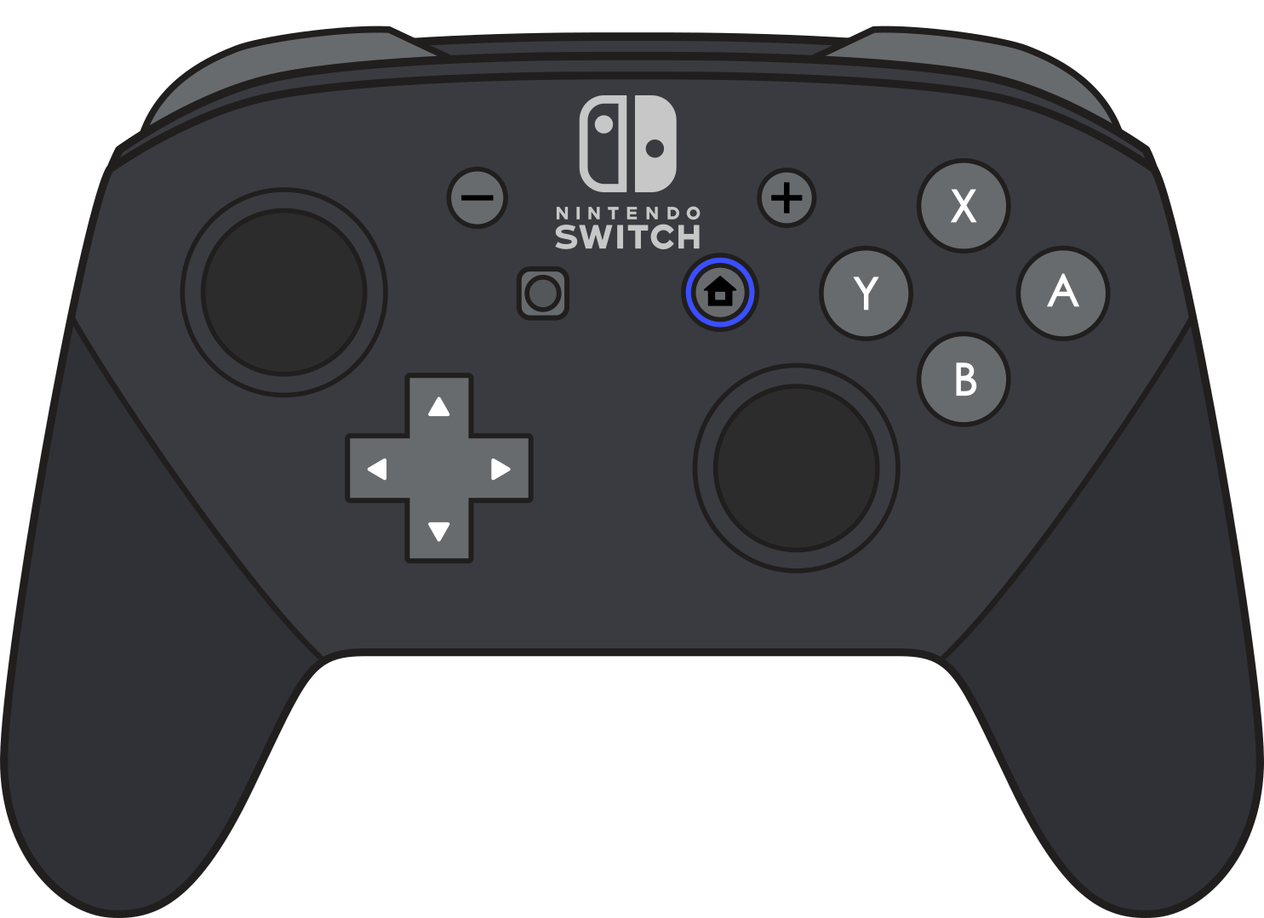
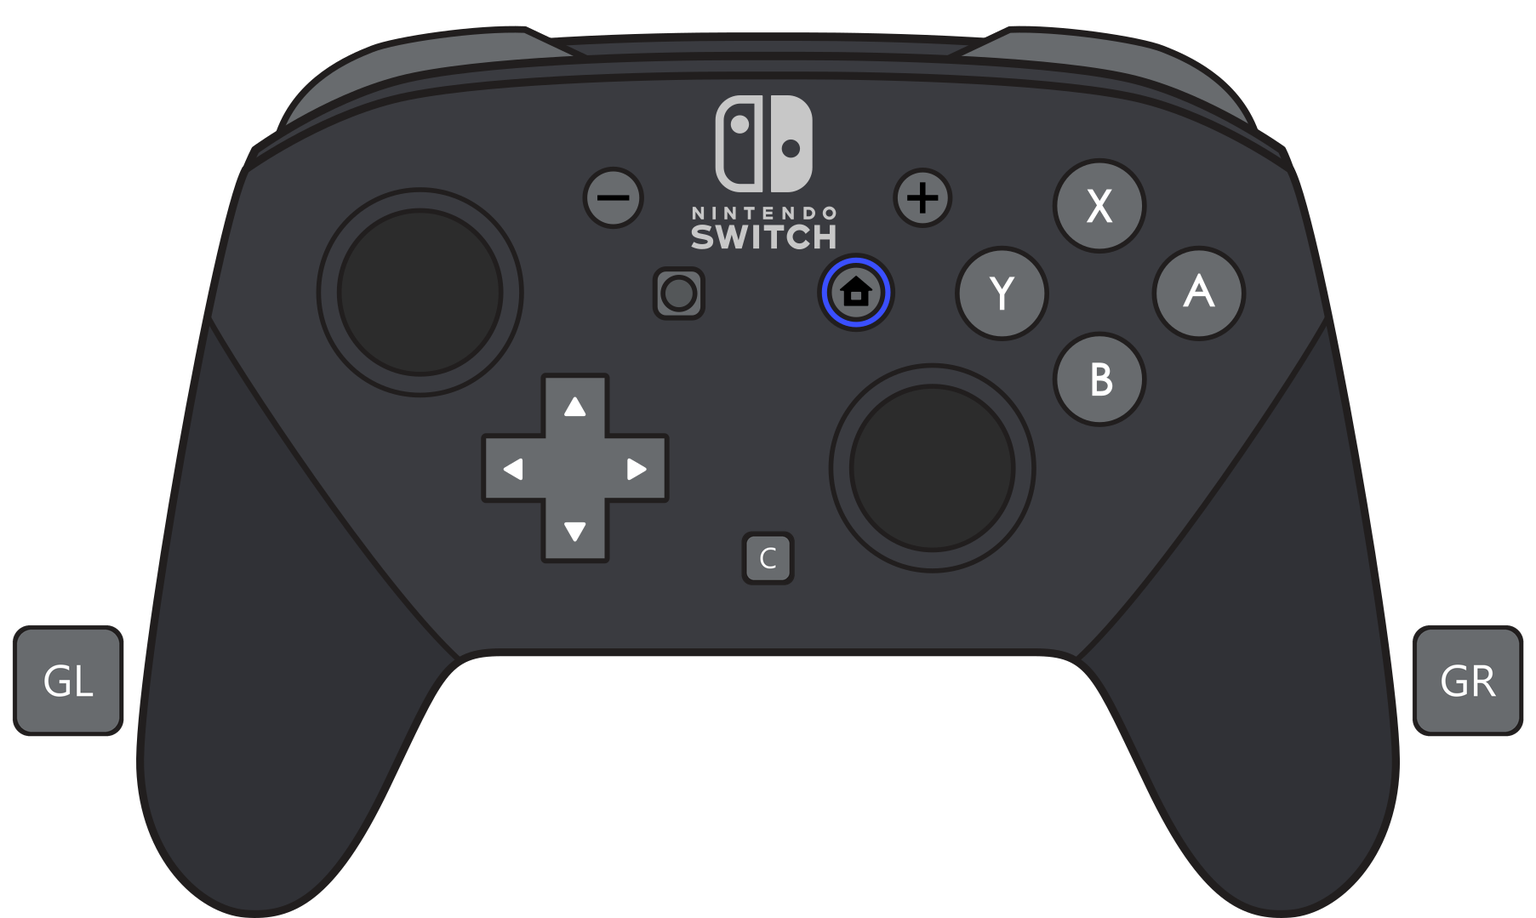
Switch 2 Pro 2D assets: C Button and floating GL / GR tiles
The 2D set was the original Pro Controller's while the 3D mesh has been
the Switch 2 Pro's, so the C Button and the two rear grip buttons had no
2D representation at all.

C sits on the front face, drawn in the Capture button's exact treatment.
Its position comes from the hado Switch 2 Pro mesh (CButton.obj centroid
x=0.00, z=-12.08) mapped into the 2D frame by a linear fit over the
controls both carry, and agrees with Nintendo's controller diagram
placing it between the D-pad and the right stick. Size and silhouette
come from the same mesh: CButton and Capture share a 6.28mm footprint
and the same rounded-square corner profile, so C reuses the Capture
press sprite rather than adding a near-duplicate.

GL and GR are on the back, so they get the Steam Deck's L4/L5/R4/R5
treatment: floating tiles in a gutter, which is why the base canvas
widens 1485 -> 1805 and every existing element shifts +160. Target names
follow the fork's own mapping string for the Switch 2 Pro, misc2:b12 for
C and paddle1/paddle2:b13/b14 for GR/GL.

Base art is regenerated by tools/gen_switchpro_s2_art.py from the pack's
untouched template, so nothing hand-edits a shipped PNG.

The generator now scales SVG label bboxes by the pack render's own 1485
width instead of the canvas width, which would otherwise stretch every
label by the gutter ratio.

diff --git a/PadForge.App/Models2D/ControllerOverlayLayout.cs b/PadForge.App/Models2D/ControllerOverlayLayout.cs
@@ -177,35 +177,38 @@ public static class XboxSeriesXLayout
 
 public static class SwitchProLayout
 {
-    public const int BaseWidth = 1485;
+    public const int BaseWidth = 1805;
     public const int BaseHeight = 1079;
     public const string BasePath = "2DModels/SWITCHPRO/NSwitchPro_base.png";
     public const double StickMaxTravel = 25;
 
     public static readonly OverlayElement[] Overlays =
     {
-        new("NSwitchPro_ZL.png", "LeftTrigger", OverlayElementType.Trigger, 221, 4, 237, 94, "0.9958,0.2766 0.8903,0.1277 0.7511,0.0000 0.4430,0.0213 0.2869,0.2021 0.1519,0.4574 0.0042,0.8511 0.0000,0.9894 0.0464,0.9894 0.1646,0.7766 0.3418,0.5851 0.6751,0.4468 0.9958,0.4149"),
-        new("NSwitchPro_ZR.png", "RightTrigger", OverlayElementType.Trigger, 1026, 4, 237, 94, "0.0000,0.2766 0.0000,0.4149 0.3207,0.4468 0.6540,0.5851 0.8312,0.7766 0.9494,0.9894 0.9958,0.9894 0.9916,0.8511 0.8439,0.4574 0.7089,0.2021 0.5527,0.0213 0.2447,0.0000 0.1055,0.1277"),
-        new("NSwitchPro_ZL_Rest.png", "LeftTriggerBase", OverlayElementType.TriggerBase, 200, 0, 278, 100),
-        new("NSwitchPro_ZR_Rest.png", "RightTriggerBase", OverlayElementType.TriggerBase, 1007, 0, 276, 100),
-        new("NSwitchPro_FaceButton.png", "ButtonA", OverlayElementType.Button, 1196, 292, 105, 106, "0.2381,0.0189 0.0762,0.1509 0.0000,0.2830 0.0000,0.7075 0.0381,0.7830 0.1524,0.9151 0.2857,0.9906 0.7048,0.9906 0.7524,0.9717 0.9143,0.8396 0.9905,0.7075 0.9905,0.2830 0.9524,0.2075 0.8381,0.0755 0.7048,0.0000 0.2857,0.0000"),
-        new("NSwitchPro_FaceButton.png", "ButtonB", OverlayElementType.Button, 1080, 392, 105, 106, "0.2381,0.0189 0.0762,0.1509 0.0000,0.2830 0.0000,0.7075 0.0381,0.7830 0.1524,0.9151 0.2857,0.9906 0.7048,0.9906 0.7524,0.9717 0.9143,0.8396 0.9905,0.7075 0.9905,0.2830 0.9524,0.2075 0.8381,0.0755 0.7048,0.0000 0.2857,0.0000"),
-        new("NSwitchPro_FaceButton.png", "ButtonX", OverlayElementType.Button, 1080, 190, 105, 106, "0.2381,0.0189 0.0762,0.1509 0.0000,0.2830 0.0000,0.7075 0.0381,0.7830 0.1524,0.9151 0.2857,0.9906 0.7048,0.9906 0.7524,0.9717 0.9143,0.8396 0.9905,0.7075 0.9905,0.2830 0.9524,0.2075 0.8381,0.0755 0.7048,0.0000 0.2857,0.0000"),
-        new("NSwitchPro_FaceButton.png", "ButtonY", OverlayElementType.Button, 965, 292, 105, 106, "0.2381,0.0189 0.0762,0.1509 0.0000,0.2830 0.0000,0.7075 0.0381,0.7830 0.1524,0.9151 0.2857,0.9906 0.7048,0.9906 0.7524,0.9717 0.9143,0.8396 0.9905,0.7075 0.9905,0.2830 0.9524,0.2075 0.8381,0.0755 0.7048,0.0000 0.2857,0.0000"),
-        new("NSwitchPro_D-PAD_Up.png", "DPadUp", OverlayElementType.Button, 474, 438, 83, 112, "0.0000,0.0000 0.0000,0.6875 0.4217,0.9911 0.5663,0.9911 0.9880,0.6875 0.9880,0.0000"),
-        new("NSwitchPro_D-PAD_Down.png", "DPadDown", OverlayElementType.Button, 474, 550, 83, 112, "0.4217,0.0000 0.0000,0.3036 0.0000,0.9911 0.9880,0.9911 0.9880,0.3036 0.5663,0.0000"),
-        new("NSwitchPro_D-PAD_Left.png", "DPadLeft", OverlayElementType.Button, 405, 508, 110, 83, "0.0000,0.0000 0.0000,0.9880 0.6727,0.9880 0.9909,0.5663 0.9909,0.4217 0.6727,0.0000"),
-        new("NSwitchPro_D-PAD_Right.png", "DPadRight", OverlayElementType.Button, 516, 508, 110, 83, "0.0000,0.4217 0.0000,0.5663 0.3182,0.9880 0.9909,0.9880 0.9909,0.0000 0.3182,0.0000"),
-        new("NSwitchPro_L_Bumper.png", "LeftShoulder", OverlayElementType.Button, 176, 35, 346, 121, "0.9971,0.2397 0.8208,0.0000 0.5694,0.0000 0.3266,0.1157 0.2023,0.2645 0.0954,0.4793 0.0058,0.8182 0.0000,0.9917 0.0405,0.9917 0.2081,0.7355 0.3786,0.5537 0.6243,0.4298 0.9971,0.3554"),
-        new("NSwitchPro_R_Bumper.png", "RightShoulder", OverlayElementType.Button, 961, 35, 346, 121, "0.0000,0.2397 0.0000,0.3554 0.3728,0.4298 0.6185,0.5537 0.7890,0.7355 0.9566,0.9917 0.9971,0.9917 0.9971,0.8595 0.9769,0.7438 0.9017,0.4793 0.7948,0.2645 0.6705,0.1157 0.4277,0.0000 0.1763,0.0000"),
-        new("NSwitchPro_Plus-MinusButton.png", "ButtonBack", OverlayElementType.Button, 527, 199, 67, 68, "0.1562,0.0308 0.0312,0.1538 0.0000,0.2154 0.0000,0.7692 0.0312,0.8308 0.1562,0.9538 0.2188,0.9846 0.7656,0.9846 0.8281,0.9538 0.9531,0.8308 0.9844,0.7692 0.9844,0.2154 0.9531,0.1538 0.8281,0.0308 0.7656,0.0000 0.2188,0.0000"),
-        new("NSwitchPro_Plus-MinusButton.png", "ButtonStart", OverlayElementType.Button, 892, 200, 64, 65, "0.1562,0.0308 0.0312,0.1538 0.0000,0.2154 0.0000,0.7692 0.0312,0.8308 0.1562,0.9538 0.2188,0.9846 0.7656,0.9846 0.8281,0.9538 0.9531,0.8308 0.9844,0.7692 0.9844,0.2154 0.9531,0.1538 0.8281,0.0308 0.7656,0.0000 0.2188,0.0000"),
-        new("NSwitchPro_HomeButton.png", "ButtonGuide", OverlayElementType.Button, 800, 297, 92, 93, "0.2609,0.0000 0.1413,0.0753 0.0000,0.2581 0.0000,0.7204 0.0761,0.8495 0.2609,0.9892 0.7283,0.9892 0.9130,0.8495 0.9891,0.7204 0.9891,0.2581 0.9130,0.1398 0.7283,0.0000"),
-        new("NSwitchPro_CaptureButton.png", "ButtonShare", OverlayElementType.Button, 607, 314, 62, 63, "0.0323,0.0159 0.0000,0.0635 0.0000,0.9206 0.0161,0.9524 0.0645,0.9841 0.9194,0.9841 0.9516,0.9683 0.9839,0.9206 0.9839,0.0635 0.9677,0.0317 0.9194,0.0000 0.0645,0.0000"),
-        new("NSwitchPro_LeftStick.png", "LeftThumbRing", OverlayElementType.StickRing, 248, 257, 172, 174, "0.2733,0.0057 0.1570,0.0747 0.0756,0.1552 0.0000,0.2874 0.0000,0.7069 0.0174,0.7471 0.1570,0.9195 0.2733,0.9885 0.7209,0.9885 0.8372,0.9195 0.9186,0.8391 0.9942,0.7069 0.9942,0.2874 0.9767,0.2471 0.8372,0.0747 0.7209,0.0057"),
-        new("NSwitchPro_RightStick.png", "RightThumbRing", OverlayElementType.StickRing, 846, 460, 179, 181, "0.2793,0.0055 0.1788,0.0608 0.0838,0.1492 0.0000,0.2928 0.0112,0.7293 0.1564,0.9171 0.2793,0.9890 0.7151,0.9890 0.8156,0.9337 0.9106,0.8453 0.9944,0.7017 0.9832,0.2652 0.8380,0.0773 0.7151,0.0055"),
-        new("NSwitchPro_AnalogStickClick.png", "LeftThumbButton", OverlayElementType.StickClick, 248, 258, 172, 171, "0.2737,0.0056 0.1732,0.0618 0.0838,0.1461 0.0000,0.2921 0.0000,0.7022 0.0279,0.7697 0.1453,0.9101 0.2905,0.9944 0.7207,0.9888 0.8547,0.9045 0.9330,0.8202 0.9888,0.7191 0.9888,0.2753 0.9106,0.1461 0.7207,0.0056"),
-        new("NSwitchPro_AnalogStickClick.png", "RightThumbButton", OverlayElementType.StickClick, 846, 462, 179, 178, "0.2737,0.0056 0.1732,0.0618 0.0838,0.1461 0.0000,0.2921 0.0000,0.7022 0.0279,0.7697 0.1453,0.9101 0.2905,0.9944 0.7207,0.9888 0.8547,0.9045 0.9330,0.8202 0.9888,0.7191 0.9888,0.2753 0.9106,0.1461 0.7207,0.0056"),
+        new("NSwitchPro_ZL.png", "LeftTrigger", OverlayElementType.Trigger, 381, 4, 237, 94, "0.9958,0.2766 0.8903,0.1277 0.7511,0.0000 0.4430,0.0213 0.2869,0.2021 0.1519,0.4574 0.0042,0.8511 0.0000,0.9894 0.0464,0.9894 0.1646,0.7766 0.3418,0.5851 0.6751,0.4468 0.9958,0.4149"),
+        new("NSwitchPro_ZR.png", "RightTrigger", OverlayElementType.Trigger, 1186, 4, 237, 94, "0.0000,0.2766 0.0000,0.4149 0.3207,0.4468 0.6540,0.5851 0.8312,0.7766 0.9494,0.9894 0.9958,0.9894 0.9916,0.8511 0.8439,0.4574 0.7089,0.2021 0.5527,0.0213 0.2447,0.0000 0.1055,0.1277"),
+        new("NSwitchPro_ZL_Rest.png", "LeftTriggerBase", OverlayElementType.TriggerBase, 360, 0, 278, 100),
+        new("NSwitchPro_ZR_Rest.png", "RightTriggerBase", OverlayElementType.TriggerBase, 1167, 0, 276, 100),
+        new("NSwitchPro_FaceButton.png", "ButtonA", OverlayElementType.Button, 1356, 292, 105, 106, "0.2381,0.0189 0.0762,0.1509 0.0000,0.2830 0.0000,0.7075 0.0381,0.7830 0.1524,0.9151 0.2857,0.9906 0.7048,0.9906 0.7524,0.9717 0.9143,0.8396 0.9905,0.7075 0.9905,0.2830 0.9524,0.2075 0.8381,0.0755 0.7048,0.0000 0.2857,0.0000"),
+        new("NSwitchPro_FaceButton.png", "ButtonB", OverlayElementType.Button, 1240, 392, 105, 106, "0.2381,0.0189 0.0762,0.1509 0.0000,0.2830 0.0000,0.7075 0.0381,0.7830 0.1524,0.9151 0.2857,0.9906 0.7048,0.9906 0.7524,0.9717 0.9143,0.8396 0.9905,0.7075 0.9905,0.2830 0.9524,0.2075 0.8381,0.0755 0.7048,0.0000 0.2857,0.0000"),
+        new("NSwitchPro_FaceButton.png", "ButtonX", OverlayElementType.Button, 1240, 190, 105, 106, "0.2381,0.0189 0.0762,0.1509 0.0000,0.2830 0.0000,0.7075 0.0381,0.7830 0.1524,0.9151 0.2857,0.9906 0.7048,0.9906 0.7524,0.9717 0.9143,0.8396 0.9905,0.7075 0.9905,0.2830 0.9524,0.2075 0.8381,0.0755 0.7048,0.0000 0.2857,0.0000"),
+        new("NSwitchPro_FaceButton.png", "ButtonY", OverlayElementType.Button, 1125, 292, 105, 106, "0.2381,0.0189 0.0762,0.1509 0.0000,0.2830 0.0000,0.7075 0.0381,0.7830 0.1524,0.9151 0.2857,0.9906 0.7048,0.9906 0.7524,0.9717 0.9143,0.8396 0.9905,0.7075 0.9905,0.2830 0.9524,0.2075 0.8381,0.0755 0.7048,0.0000 0.2857,0.0000"),
+        new("NSwitchPro_D-PAD_Up.png", "DPadUp", OverlayElementType.Button, 634, 438, 83, 112, "0.0000,0.0000 0.0000,0.6875 0.4217,0.9911 0.5663,0.9911 0.9880,0.6875 0.9880,0.0000"),
+        new("NSwitchPro_D-PAD_Down.png", "DPadDown", OverlayElementType.Button, 634, 550, 83, 112, "0.4217,0.0000 0.0000,0.3036 0.0000,0.9911 0.9880,0.9911 0.9880,0.3036 0.5663,0.0000"),
+        new("NSwitchPro_D-PAD_Left.png", "DPadLeft", OverlayElementType.Button, 565, 508, 110, 83, "0.0000,0.0000 0.0000,0.9880 0.6727,0.9880 0.9909,0.5663 0.9909,0.4217 0.6727,0.0000"),
+        new("NSwitchPro_D-PAD_Right.png", "DPadRight", OverlayElementType.Button, 676, 508, 110, 83, "0.0000,0.4217 0.0000,0.5663 0.3182,0.9880 0.9909,0.9880 0.9909,0.0000 0.3182,0.0000"),
+        new("NSwitchPro_L_Bumper.png", "LeftShoulder", OverlayElementType.Button, 336, 35, 346, 121, "0.9971,0.2397 0.8208,0.0000 0.5694,0.0000 0.3266,0.1157 0.2023,0.2645 0.0954,0.4793 0.0058,0.8182 0.0000,0.9917 0.0405,0.9917 0.2081,0.7355 0.3786,0.5537 0.6243,0.4298 0.9971,0.3554"),
+        new("NSwitchPro_R_Bumper.png", "RightShoulder", OverlayElementType.Button, 1121, 35, 346, 121, "0.0000,0.2397 0.0000,0.3554 0.3728,0.4298 0.6185,0.5537 0.7890,0.7355 0.9566,0.9917 0.9971,0.9917 0.9971,0.8595 0.9769,0.7438 0.9017,0.4793 0.7948,0.2645 0.6705,0.1157 0.4277,0.0000 0.1763,0.0000"),
+        new("NSwitchPro_Plus-MinusButton.png", "ButtonBack", OverlayElementType.Button, 687, 199, 67, 68, "0.1562,0.0308 0.0312,0.1538 0.0000,0.2154 0.0000,0.7692 0.0312,0.8308 0.1562,0.9538 0.2188,0.9846 0.7656,0.9846 0.8281,0.9538 0.9531,0.8308 0.9844,0.7692 0.9844,0.2154 0.9531,0.1538 0.8281,0.0308 0.7656,0.0000 0.2188,0.0000"),
+        new("NSwitchPro_Plus-MinusButton.png", "ButtonStart", OverlayElementType.Button, 1052, 200, 64, 65, "0.1562,0.0308 0.0312,0.1538 0.0000,0.2154 0.0000,0.7692 0.0312,0.8308 0.1562,0.9538 0.2188,0.9846 0.7656,0.9846 0.8281,0.9538 0.9531,0.8308 0.9844,0.7692 0.9844,0.2154 0.9531,0.1538 0.8281,0.0308 0.7656,0.0000 0.2188,0.0000"),
+        new("NSwitchPro_HomeButton.png", "ButtonGuide", OverlayElementType.Button, 960, 297, 92, 93, "0.2609,0.0000 0.1413,0.0753 0.0000,0.2581 0.0000,0.7204 0.0761,0.8495 0.2609,0.9892 0.7283,0.9892 0.9130,0.8495 0.9891,0.7204 0.9891,0.2581 0.9130,0.1398 0.7283,0.0000"),
+        new("NSwitchPro_CaptureButton.png", "ButtonShare", OverlayElementType.Button, 767, 314, 62, 63, "0.0323,0.0159 0.0000,0.0635 0.0000,0.9206 0.0161,0.9524 0.0645,0.9841 0.9194,0.9841 0.9516,0.9683 0.9839,0.9206 0.9839,0.0635 0.9677,0.0317 0.9194,0.0000 0.0645,0.0000"),
+        new("NSwitchPro_LeftStick.png", "LeftThumbRing", OverlayElementType.StickRing, 408, 257, 172, 174, "0.2733,0.0057 0.1570,0.0747 0.0756,0.1552 0.0000,0.2874 0.0000,0.7069 0.0174,0.7471 0.1570,0.9195 0.2733,0.9885 0.7209,0.9885 0.8372,0.9195 0.9186,0.8391 0.9942,0.7069 0.9942,0.2874 0.9767,0.2471 0.8372,0.0747 0.7209,0.0057"),
+        new("NSwitchPro_RightStick.png", "RightThumbRing", OverlayElementType.StickRing, 1006, 460, 179, 181, "0.2793,0.0055 0.1788,0.0608 0.0838,0.1492 0.0000,0.2928 0.0112,0.7293 0.1564,0.9171 0.2793,0.9890 0.7151,0.9890 0.8156,0.9337 0.9106,0.8453 0.9944,0.7017 0.9832,0.2652 0.8380,0.0773 0.7151,0.0055"),
+        new("NSwitchPro_AnalogStickClick.png", "LeftThumbButton", OverlayElementType.StickClick, 408, 258, 172, 171, "0.2737,0.0056 0.1732,0.0618 0.0838,0.1461 0.0000,0.2921 0.0000,0.7022 0.0279,0.7697 0.1453,0.9101 0.2905,0.9944 0.7207,0.9888 0.8547,0.9045 0.9330,0.8202 0.9888,0.7191 0.9888,0.2753 0.9106,0.1461 0.7207,0.0056"),
+        new("NSwitchPro_AnalogStickClick.png", "RightThumbButton", OverlayElementType.StickClick, 1006, 462, 179, 178, "0.2737,0.0056 0.1732,0.0618 0.0838,0.1461 0.0000,0.2921 0.0000,0.7022 0.0279,0.7697 0.1453,0.9101 0.2905,0.9944 0.7207,0.9888 0.8547,0.9045 0.9330,0.8202 0.9888,0.7191 0.9888,0.2753 0.9106,0.1461 0.7207,0.0056"),
+        new("NSwitchPro_CaptureButton.png", "Misc2", OverlayElementType.Button, 872, 624, 62, 63, "0.0323,0.0159 0.0000,0.0635 0.0000,0.9206 0.0161,0.9524 0.0645,0.9841 0.9194,0.9841 0.9516,0.9683 0.9839,0.9206 0.9839,0.0635 0.9677,0.0317 0.9194,0.0000 0.0645,0.0000"),
+        new("NSwitchPro_GripTile.png", "Paddle2", OverlayElementType.Button, 15, 735, 130, 130, "0.0231,0.0000 0.0000,0.0231 0.0000,0.9692 0.0231,0.9923 0.9692,0.9923 0.9923,0.9692 0.9923,0.0231 0.9692,0.0000"),
+        new("NSwitchPro_GripTile.png", "Paddle1", OverlayElementType.Button, 1660, 735, 130, 130, "0.0231,0.0000 0.0000,0.0231 0.0000,0.9692 0.0231,0.9923 0.9692,0.9923 0.9923,0.9692 0.9923,0.0231 0.9692,0.0000"),
     };
 }
 

diff --git a/tools/gen_switchpro_s2_art.py b/tools/gen_switchpro_s2_art.py
@@ -1,0 +1,151 @@
+"""Extend the Switch Pro 2D asset set to Switch 2 Pro.
+
+Runs before tools/overlay_positions.py, which reads the base this writes
+and emits SwitchProLayout against it. Rerunning is idempotent: the input
+is always the pack's own untouched template, never the shipped base.
+
+Adds the three controls the Switch 2 Pro has and the original does not:
+the C Button on the front face, and the GL / GR rear grip buttons shown
+as floating tiles in a side margin (the Steam Deck's L4/L5/R4/R5
+treatment, which is the repo's established answer for a control with no
+front-facing position).
+
+Positions are derived, not eyeballed:
+  * C Button comes from the purchased hado Switch 2 Pro mesh
+    (3DModels/Switch2Pro/CButton.obj, centroid x=0.00 z=-12.08) mapped
+    into the 2D frame by a linear fit over controls present in both, and
+    cross-checked against Nintendo's own controller diagram, which puts
+    it "on the front face between the D-pad and right stick area".
+  * Its size and rounded-square silhouette come from the same mesh:
+    CButton and Capture share a 6.28mm footprint and the same corner
+    profile (top-face radius spread 1.35 vs 1.32; the round face buttons
+    and Home measure 1.00), so C reuses the Capture press sprite.
+
+Palette is sampled from the base render, not guessed:
+  body #3A3B40, button outline #211E1E, cap grey #686B6E, glyph white.
+"""
+import os
+from PIL import Image, ImageDraw, ImageFont
+
+ROOT = os.path.dirname(os.path.dirname(os.path.abspath(__file__)))
+SRC = os.path.join(ROOT, "PadForge.App", "2DModels", "SWITCHPRO")
+PACK = os.path.join(os.path.dirname(ROOT), "Gamepad-Asset-Pack", "Controller Asset Pack",
+                    "Nintendo Switch Controller Images", "Switch Pro Controller",
+                    "Default Theme", "Templates", "NSwitchPro_base.png")
+
+MARGIN = 160          # side gutter the floating tiles live in
+TILE = 130            # GL / GR tile edge
+TILE_Y = 735          # top of tile, centred on the grips
+SS = 4                # supersample factor for every drawn shape
+
+OUTLINE = (33, 30, 30, 255)
+CAP = (104, 107, 110, 255)
+GLYPH = (255, 255, 255, 255)
+RING = (36, 210, 246, 255)        # press-sprite outline
+RING_FILL = (16, 120, 147, 128)   # press-sprite interior
+
+# C Button, in the ORIGINAL 1485-wide frame. See module docstring.
+C_W, C_H = 62, 63
+C_CX, C_CY = 742.5, 656.0
+
+
+def font(size):
+    # The pack's A/B/X/Y glyphs are a regular-weight geometric sans, not a
+    # light one. A light face renders grey after antialiasing and reads as
+    # a different family beside them.
+    for name in ("segoeui.ttf", "arial.ttf"):
+        p = os.path.join(r"C:\Windows\Fonts", name)
+        if os.path.exists(p):
+            return ImageFont.truetype(p, size)
+    raise SystemExit("no usable font")
+
+
+def centred_text(draw, box, text, fnt, fill):
+    """Draw text optically centred in box (x0,y0,x1,y1) by its ink bbox."""
+    x0, y0, x1, y1 = box
+    bb = draw.textbbox((0, 0), text, font=fnt)
+    tw, th = bb[2] - bb[0], bb[3] - bb[1]
+    draw.text((x0 + (x1 - x0 - tw) / 2 - bb[0],
+               y0 + (y1 - y0 - th) / 2 - bb[1]), text, font=fnt, fill=fill)
+
+
+def rounded(draw, box, radius, fill=None, outline=None, width=0):
+    draw.rounded_rectangle(box, radius=radius, fill=fill, outline=outline, width=width)
+
+
+def draw_c_button(img, cx, cy):
+    """The C Button, drawn in the Capture button's exact treatment."""
+    lay = Image.new("RGBA", (img.width * SS, img.height * SS), (0, 0, 0, 0))
+    d = ImageDraw.Draw(lay)
+    hw, hh = C_W * SS / 2, C_H * SS / 2
+    x0, y0 = cx * SS - hw, cy * SS - hh
+    x1, y1 = cx * SS + hw, cy * SS + hh
+    r = 12 * SS
+    rounded(d, (x0, y0, x1, y1), r, fill=OUTLINE)                 # dark rim
+    inset = 6 * SS
+    rounded(d, (x0 + inset, y0 + inset, x1 - inset, y1 - inset),
+            r - inset * 0.55, fill=CAP)                            # grey cap
+    centred_text(d, (x0 + inset, y0 + inset, x1 - inset, y1 - inset),
+                 "C", font(int(34 * SS)), GLYPH)
+    lay = lay.resize((img.width, img.height), Image.LANCZOS)
+    img.alpha_composite(lay)
+
+
+def draw_tile(img, x0, y0, label):
+    """A floating GL / GR tile: same rim + cap + white glyph language."""
+    lay = Image.new("RGBA", (img.width * SS, img.height * SS), (0, 0, 0, 0))
+    d = ImageDraw.Draw(lay)
+    X0, Y0 = x0 * SS, y0 * SS
+    X1, Y1 = (x0 + TILE) * SS, (y0 + TILE) * SS
+    r = 20 * SS
+    rounded(d, (X0, Y0, X1, Y1), r, fill=OUTLINE)
+    inset = 5 * SS
+    rounded(d, (X0 + inset, Y0 + inset, X1 - inset, Y1 - inset),
+            r - inset * 0.55, fill=CAP)
+    centred_text(d, (X0 + inset, Y0 + inset, X1 - inset, Y1 - inset),
+                 label, font(int(52 * SS)), GLYPH)
+    lay = lay.resize((img.width, img.height), Image.LANCZOS)
+    img.alpha_composite(lay)
+
+
+def make_tile_sprite(path):
+    """Press sprite for a grip tile: the family's cyan rim + wash."""
+    lay = Image.new("RGBA", (TILE * SS, TILE * SS), (0, 0, 0, 0))
+    d = ImageDraw.Draw(lay)
+    r = 20 * SS
+    rounded(d, (0, 0, TILE * SS - 1, TILE * SS - 1), r, fill=RING_FILL)
+    rounded(d, (0, 0, TILE * SS - 1, TILE * SS - 1), r, outline=RING, width=6 * SS)
+    lay.resize((TILE, TILE), Image.LANCZOS).save(path)
+    print(f"  wrote {os.path.basename(path)} {TILE}x{TILE}")
+
+
+def main():
+    src = Image.open(PACK).convert("RGBA")
+    print(f"pack base {src.size}")
+    if src.size != (1485, 1079):
+        raise SystemExit(f"unexpected pack base size {src.size}")
+
+    out = Image.new("RGBA", (src.width + 2 * MARGIN, src.height), (0, 0, 0, 0))
+    out.alpha_composite(src, (MARGIN, 0))
+
+    draw_c_button(out, C_CX + MARGIN, C_CY)
+    draw_tile(out, (MARGIN - TILE) // 2, TILE_Y, "GL")
+    draw_tile(out, out.width - (MARGIN - TILE) // 2 - TILE, TILE_Y, "GR")
+
+    dst = os.path.join(SRC, "NSwitchPro_base.png")
+    out.save(dst)
+    print(f"  wrote base {out.size} -> {dst}")
+
+    make_tile_sprite(os.path.join(SRC, "NSwitchPro_GripTile.png"))
+
+    # Emitted layout geometry, in the NEW frame.
+    print("\nlayout geometry (new frame):")
+    print(f"  BaseWidth  = {out.width}")
+    print(f"  BaseHeight = {out.height}")
+    print(f"  C   x={round(C_CX + MARGIN - C_W / 2)} y={round(C_CY - C_H / 2)} w={C_W} h={C_H}")
+    print(f"  GL  x={(MARGIN - TILE)//2} y={TILE_Y} w={TILE} h={TILE}")
+    print(f"  GR  x={out.width - (MARGIN - TILE)//2 - TILE} y={TILE_Y} w={TILE} h={TILE}")
+    print(f"  X shift for every existing element = +{MARGIN}")
+
+
+main()

diff --git a/tools/overlay_positions.py b/tools/overlay_positions.py
@@ -1366,6 +1366,12 @@ def process_xbox_series():
     return data
 
 
+SWPRO_BODY_W = 1485    # the pack render's own width, what the SVG maps onto
+SWPRO_MARGIN = 160     # gutter added each side for the GL / GR floating tiles
+SWPRO_TILE = 130       # GL / GR tile edge
+SWPRO_TILE_Y = 735     # tile top, level with the grips
+
+
 def process_switchpro():
     """Extract Nintendo Switch Pro Controller overlay positions.
 
@@ -1378,6 +1384,14 @@ def process_switchpro():
     typing (the digital preview bridge drives the fill 0/1, so a press
     shows the full highlight); their rest art lives in the base render,
     so no TriggerBase pair is needed.
+
+    The set covers the Switch 2 Pro as well, the same arrangement the
+    Series profiles have riding the Xbox One mesh. Three controls the
+    original does not have are appended by hand because the pack's SVG
+    is the original's and cannot label them: the C Button, and the GL /
+    GR rear buttons drawn as floating tiles in a side gutter (the Steam
+    Deck L4/L5/R4/R5 treatment for a control with no front position).
+    Sources for those three are in SWITCHPRO_EXTRAS below.
     """
     svg_path = os.path.join(ASSET_PACK,
         "Nintendo Switch Controller Images", "Switch Pro Controller",
@@ -1388,11 +1402,17 @@ def process_switchpro():
 
     base = cv2.imread(os.path.join(MODELS_DIR, "SWITCHPRO", "NSwitchPro_base.png"), cv2.IMREAD_UNCHANGED)
     base_w, base_h = base.shape[1], base.shape[0]
+    if base_w != SWPRO_BODY_W + 2 * SWPRO_MARGIN:
+        raise SystemExit(f"SWITCHPRO base is {base_w}px wide; expected "
+                         f"{SWPRO_BODY_W} + 2x{SWPRO_MARGIN} gutter")
 
     # SVG is authored in mm (viewBox 0 0 419.127 304.546); px-per-mm from
-    # the width ratio against the 1485x1079 base.
+    # the width ratio against the pack render's own 1485x1079 body. NOT
+    # against base_w: the shipped base carries a gutter on each side that
+    # the SVG knows nothing about, so scaling by the full canvas width
+    # would stretch every label bbox by the gutter ratio.
     vb = [float(v) for v in root.get("viewBox").split()]
-    scale = base_w / vb[2]
+    scale = SWPRO_BODY_W / vb[2]
 
     ov_dir = os.path.join(MODELS_DIR, "SWITCHPRO")
     results = []
@@ -1478,6 +1498,46 @@ def process_switchpro():
             pos = fit_overlay_to_bbox(bbox, os.path.join(ov_dir, "NSwitchPro_AnalogStickClick.png"))
             results.append(("NSwitchPro_AnalogStickClick.png", target, "StickClick", pos[0], pos[1], pos[2], pos[3]))
             print(f"  {target:20s} ({lbl:20s}) -> ({pos[0]:4d}, {pos[1]:4d}) {pos[2]:4d}x{pos[3]:3d}")
+
+    # ── Switch 2 Pro extras ────────────────────────────────────────────
+    # No SVG labels exist for these: the pack's theme SVG is the original
+    # Pro Controller's. Derived instead from the purchased hado Switch 2
+    # Pro mesh in 3DModels/Switch2Pro, mapped into this frame by a linear
+    # fit over the controls both carry, which agrees to a few px on the
+    # right half and ~1 px at the D-pad.
+    #
+    # C Button: mesh centroid x=0.00 (dead centre) z=-12.08 (below both
+    # the D-pad and the right stick) -> (742.5, 656) body-frame, and
+    # Nintendo's own controller diagram places it "on the front face
+    # between the D-pad and right stick area". It reuses the Capture
+    # press sprite because the mesh gives the two an identical 6.28mm
+    # footprint and the same rounded-square corner profile (top-face
+    # radius spread 1.35 vs 1.32; the round face buttons measure 1.00).
+    # Fixed rect, no fit pass: fit_overlay_to_bbox rewrites the PNG on
+    # disk, and this sprite is already sized by its own Capture entry.
+    #
+    # Target names come from the fork's own mapping string for
+    # USB_PRODUCT_NINTENDO_SWITCH2_PRO in SDL_gamepad.c:
+    #   misc1:b11 (Capture)  misc2:b12 (C)
+    #   paddle1:b13 (GR, right)  paddle2:b14 (GL, left)
+    results.append(("NSwitchPro_CaptureButton.png", "Misc2", "Button", 712, 624, 62, 63))
+    print(f"  {'Misc2':20s} ({'C, from S2 mesh':20s}) -> ( 712,  624)   62x 63")
+
+    # Shift the body-frame results into the widened canvas. Everything
+    # above, including the two hardcoded TriggerBase rects, is expressed
+    # against the pack render's origin.
+    results = [(fn, t, ty, x + SWPRO_MARGIN, y, w, h)
+               for (fn, t, ty, x, y, w, h) in results]
+
+    # The floating tiles live in the gutter, so they are authored in the
+    # widened frame directly and take no shift.
+    tile_x = (SWPRO_MARGIN - SWPRO_TILE) // 2
+    for target, x, label in (("Paddle2", tile_x, "GL"),
+                             ("Paddle1", base_w - tile_x - SWPRO_TILE, "GR")):
+        results.append(("NSwitchPro_GripTile.png", target, "Button",
+                        x, SWPRO_TILE_Y, SWPRO_TILE, SWPRO_TILE))
+        print(f"  {target:20s} ({label + ', floating tile':20s}) -> "
+              f"({x:4d}, {SWPRO_TILE_Y:4d}) {SWPRO_TILE:4d}x{SWPRO_TILE:3d}")
 
     return {"base_width": base_w, "base_height": base_h, "results": results}
 
